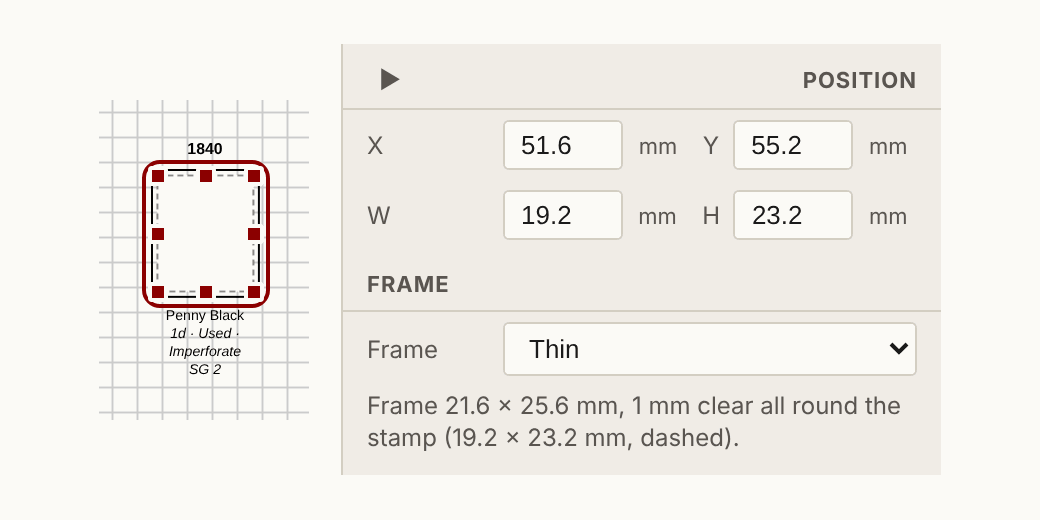
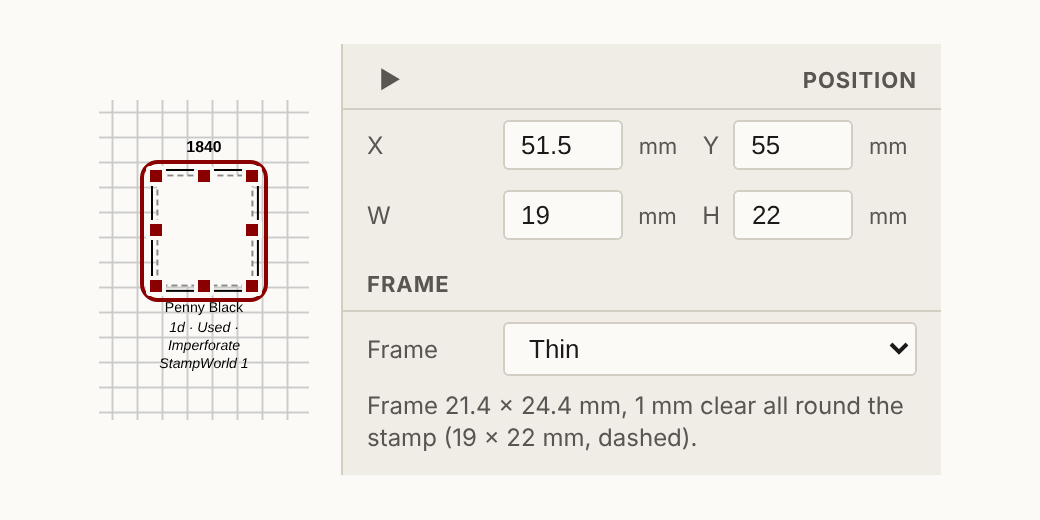
Rewrite the tutorial with pictures of the current editor
- Four steps, each with a picture: adding stamps at their catalogue size,
  frames and captions, theme / page border / Page setup, preview and export
- First-run sample album: an exhibition-style page with three 1840-41
  stamps at 19 x 22 mm (3/4 x 7/8 inch), numbered as StampWorld 1 to 3
- tools/screenshots.py (make screenshots) makes the tutorial pictures and
  the README screenshots from the running app; tutorial PNGs are packaged
- README lists frames, captions and themes; screenshots refreshed
- Tests: every step has a described 2:1 picture that loads, Next walks
  through and finishes, the named controls exist, and the sample keeps
  its stamps at 19 x 22 mm with no warnings

Claude-Session: https://claude.ai/code/session_016fZNTHwNDrQAHZBywXXw2X

diff --git a/src/stamp_album/web/tutorial.js b/src/stamp_album/web/tutorial.js
@@ -25,7 +25,8 @@ function showTutorial() {
 }
 
 // Auto-load a sample album so the canvas isn't empty: an exhibition-style page with three
-// stamps at their catalogue size (19 x 23 mm), so their frames show the 1 mm clearance.
+// stamps at their size (3/4 x 7/8 inch, 19 x 22 mm), so their frames show the 1 mm clearance.
+// Numbers and dates are StampWorld's (Great Britain 1 to 3).
 // The screenshot script (tools/screenshots.py) uses the same page.
 var SAMPLE_DSL = [
     'ALBUM_PAGES_BORDER(0.5 0 0 1)',
@@ -39,13 +40,13 @@ var SAMPLE_DSL = [
     'PAGE_TEXT_AT(20.0 18.0 170.0 12.0 "HB" 16 "Great Britain: The First Stamps" "center")',
     'PAGE_TEXT_ROLE("heading")',
     'PAGE_TEXT_AT(20.0 31.0 170.0 8.0 "HN" 10 "Line-engraved issues, 1840 to 1841" "center")',
-    'STAMP_ADD_AT(51.5 55.0 19.0 23.0 "Penny Black" "SG 2" "" "" rectangle "solid" "#000000" 0.5 "#ffffff" 100)',
+    'STAMP_ADD_AT(51.5 55.0 19.0 22.0 "Penny Black" "StampWorld 1" "" "" rectangle "solid" "#000000" 0.5 "#ffffff" 100)',
     'STAMP_HEADING("HN" 9 "1840")',
     'STAMP_DETAILS("1d" "Used" "Imperforate")',
-    'STAMP_ADD_AT(95.5 55.0 19.0 23.0 "Twopence Blue" "SG 5" "" "" rectangle "solid" "#000000" 0.5 "#ffffff" 100)',
+    'STAMP_ADD_AT(95.5 55.0 19.0 22.0 "Twopence Blue" "StampWorld 2" "" "" rectangle "solid" "#000000" 0.5 "#ffffff" 100)',
     'STAMP_HEADING("HN" 9 "1840")',
     'STAMP_DETAILS("2d" "Used" "Imperforate")',
-    'STAMP_ADD_AT(139.5 55.0 19.0 23.0 "Penny Red" "SG 8" "" "" rectangle "solid" "#000000" 0.5 "#ffffff" 100)',
+    'STAMP_ADD_AT(139.5 55.0 19.0 22.0 "Penny Red" "StampWorld 3" "" "" rectangle "solid" "#000000" 0.5 "#ffffff" 100)',
     'STAMP_HEADING("HN" 9 "1841")',
     'STAMP_DETAILS("1d" "Used" "Imperforate")'
 ].join("\n");

diff --git a/tools/screenshots.py b/tools/screenshots.py
@@ -91,8 +91,11 @@ def _fit(parts, size=TUTORIAL_SIZE, gap=16 * DSF, margin=14 * DSF):
 def _stack(rows, gap=12 * DSF):
     """Crops (or rows of crops) one above the other, left-aligned, at their own scale."""
     rows = [r if isinstance(r, Image.Image) else _row(r, gap) for r in rows]
-    out = Image.new("RGB", (max(r.width for r in rows), sum(r.height for r in rows) + gap * (len(rows) - 1)),
-                    BACKGROUND)
+    out = Image.new(
+        "RGB",
+        (max(r.width for r in rows), sum(r.height for r in rows) + gap * (len(rows) - 1)),
+        BACKGROUND,
+    )
     y = 0
     for r in rows:
         out.paste(r, (0, y))
@@ -101,8 +104,11 @@ def _stack(rows, gap=12 * DSF):
 
 
 def _row(parts, gap):
-    out = Image.new("RGB", (sum(p.width for p in parts) + gap * (len(parts) - 1), max(p.height for p in parts)),
-                    BACKGROUND)
+    out = Image.new(
+        "RGB",
+        (sum(p.width for p in parts) + gap * (len(parts) - 1), max(p.height for p in parts)),
+        BACKGROUND,
+    )
     x = 0
     for p in parts:
         out.paste(p, (x, 0))
@@ -121,7 +127,9 @@ def main():
     with sync_playwright() as p:
         browser = p.chromium.launch()
         page = browser.new_page(viewport={"width": 1440, "height": 900}, device_scale_factor=DSF)
-        page.add_init_script("try { localStorage.setItem('stampalbum-tutorial-done', '1'); } catch (e) {}")
+        page.add_init_script(
+            "try { localStorage.setItem('stampalbum-tutorial-done', '1'); } catch (e) {}"
+        )
         page.goto(f"http://127.0.0.1:{port}/")
         page.wait_for_function("window.StampAlbum && document.getElementById('page')")
         page.evaluate("""() => {
@@ -131,7 +139,10 @@ def main():
             document.activeElement && document.activeElement.blur();
         }""")
         # No hover outlines, size labels or empty-panel hint in the pictures
-        page.add_style_tag(content=".cel .dim { display: none !important; } #rp-none { visibility: hidden; }")
+        page.add_style_tag(
+            content=".cel .dim, #toast-container { display: none !important; }"
+            " #rp-none { visibility: hidden; }"
+        )
         page.mouse.move(5, 890)
         page.wait_for_timeout(400)
         full = _shot(page)
@@ -139,21 +150,32 @@ def main():
         # 1. A stamp at its catalogue size, and the sizes in Properties
         stamp = _crop(full, _page_mm(page, 40, 40, 82, 104))
         props_top = _box(page, "#rp .rp-sec")[1]
-        props = _crop(full, (_box(page, "#rp")[0], props_top, _box(page, "#rp")[2], _box(page, "#pframe-size")[3] + 4))
+        props = _crop(
+            full,
+            (
+                _box(page, "#rp")[0],
+                props_top,
+                _box(page, "#rp")[2],
+                _box(page, "#pframe-size")[3] + 4,
+            ),
+        )
         _save(_fit([stamp, props]), WEB / "tutorial-1-add.png")
 
         # 2. Frames and captions on the sample page
         page.evaluate("StampAlbum.select(null)")
         page.wait_for_timeout(200)
         full = _shot(page)
-        _save(_fit([_crop(full, _page_mm(page, 38, 38, 172, 102))]), WEB / "tutorial-2-captions.png")
+        _save(
+            _fit([_crop(full, _page_mm(page, 38, 38, 172, 102))]), WEB / "tutorial-2-captions.png"
+        )
 
         # 3. The bar above the page (Page, then Page border and Theme) over the top of the page
         bar = _box(page, "#ca-toolbar")
         page_btn = _box(page, "#btn-page-setup")
-        border_sel, theme_sel = _box(page, "#def-bdr"), _box(page, "#def-theme")
-        left = _crop(full, (bar[0], bar[1], page_btn[2] + 8, bar[3]))
-        right = _crop(full, (border_sel[0] - 92, bar[1], theme_sel[2] + 8, bar[3]))
+        theme_sel = _box(page, "#def-theme")
+        left = _crop(full, (bar[0], bar[1], page_btn[2] + 3, bar[3]))
+        border_label = _box(page, 'label[for="def-bdr"]')
+        right = _crop(full, (border_label[0] - 8, bar[1], theme_sel[2] + 8, bar[3]))
         sheet = _crop(full, _page_mm(page, 0, 0, 210, 44))
         _save(_fit([_stack([[left, right], sheet])]), WEB / "tutorial-3-page.png")
 
@@ -162,7 +184,8 @@ def main():
         page.wait_for_timeout(250)
         full = _shot(page)
         menu = page.evaluate("""() => {
-            const m = [...document.querySelectorAll('#btn-export-dd [role=menu], #btn-export-dd .export-menu, #btn-export-dd ul, #btn-export-dd div')]
+            const q = '#btn-export-dd [role=menu], #btn-export-dd div';
+            const m = [...document.querySelectorAll(q)]
                 .filter(n => n.offsetParent && n.getBoundingClientRect().height > 40)[0];
             const b = (m || document.getElementById('btn-export')).getBoundingClientRect();
             return [b.left, b.top, b.right, b.bottom];

diff --git a/src/tests/test_tutorial.py b/src/tests/test_tutorial.py
@@ -20,8 +20,11 @@ def test_every_step_has_a_picture_that_loads(page):
         img = steps.nth(i).locator("img.tutorial-img")
         assert img.count() == 1, f"step {i + 1} has no picture"
         assert len(img.get_attribute("alt") or "") > 20, f"step {i + 1} picture needs a description"
-        page.evaluate("i => { const s = [...document.querySelectorAll('#tutorial-overlay .tutorial-step')];"
-                      " s.forEach((n, k) => n.classList.toggle('active', k === i)); }", i)
+        page.evaluate(
+            "i => { const s = [...document.querySelectorAll('#tutorial-overlay .tutorial-step')];"
+            " s.forEach((n, k) => n.classList.toggle('active', k === i)); }",
+            i,
+        )
         img.evaluate("im => im.complete || new Promise(r => { im.onload = im.onerror = r; })")
         size = img.evaluate("im => [im.naturalWidth, im.naturalHeight]")
         assert size[0] > 0, f"step {i + 1} picture did not load"
@@ -31,7 +34,9 @@ def test_every_step_has_a_picture_that_loads(page):
 def test_next_walks_through_the_steps_and_finishes(page):
     _open(page)
     for step in range(1, 5):
-        active = page.evaluate("document.querySelector('#tutorial-overlay .tutorial-step.active').dataset.step")
+        active = page.evaluate(
+            "document.querySelector('#tutorial-overlay .tutorial-step.active').dataset.step"
+        )
         assert active == str(step)
         label = page.inner_text("#btn-tutorial-next")
         assert label == ("Get Started" if step == 4 else "Next")
@@ -39,20 +44,25 @@ def test_next_walks_through_the_steps_and_finishes(page):
     assert "open" not in (page.get_attribute("#tutorial-overlay", "class") or "")
 
 
-@pytest.mark.parametrize("selector", ["#pbs", "#phil-sec", "#def-theme", "#def-bdr", "#btn-page-setup",
-                                      "#btn-preview", "#btn-export", "#btn-save", "#pw", "#ph"])
+NAMED = ["#pbs", "#phil-sec", "#def-theme", "#def-bdr", "#btn-page-setup",
+         "#btn-preview", "#btn-export", "#btn-save", "#pw", "#ph"]
+
+
+@pytest.mark.parametrize("selector", NAMED)
 def test_the_controls_the_tutorial_names_exist(page, selector):
     assert page.locator(selector).count() == 1
 
 
 def test_sample_album_shows_stamps_at_catalogue_size(page):
     page.evaluate("StampAlbum.newAlbum(); StampAlbum.loadSampleAlbum()")
-    stamps = page.evaluate("StampAlbum.E.filter(e => e.t === 'stamp').map(e => "
-                           "({lbl: e.lbl, w: e.w / StampAlbum._sc, h: e.h / StampAlbum._sc, x: e.x / StampAlbum._sc,"
-                           " cat: e.cat, frame: StampAlbum.frameOf(e)}))")
+    stamps = page.evaluate(
+        "(() => { const s = StampAlbum._sc;"
+        " return StampAlbum.E.filter(e => e.t === 'stamp').map(e => ({lbl: e.lbl, w: e.w / s,"
+        " h: e.h / s, x: e.x / s, cat: e.cat, frame: StampAlbum.frameOf(e)})); })()"
+    )
     assert [s["lbl"] for s in stamps] == ["Penny Black", "Twopence Blue", "Penny Red"]
     for s in stamps:
-        assert (s["w"], s["h"]) == (pytest.approx(19), pytest.approx(23)), "kept at the catalogue size"
+        assert (s["w"], s["h"]) == (pytest.approx(19), pytest.approx(22)), "kept at its size"
         assert s["frame"] == "thin" and s["cat"]
     assert stamps[0]["x"] == pytest.approx(51.5)
     assert page.locator("#page .caption-warn").count() == 0, "the sample page has no warnings"

diff --git a/src/tests/test_save_roundtrip_ui.py b/src/tests/test_save_roundtrip_ui.py
@@ -30,7 +30,7 @@ def test_stamp_details_survive_save_and_open(page):
     page.evaluate("StampAlbum.newAlbum()")
     assert page.evaluate("StampAlbum.E.length") == 0
     page.evaluate("dsl => StampAlbum.parseDSL(dsl)", dsl)
-    page.evaluate("StampAlbum.select(StampAlbum.E.find(e => e.lbl === 'Penny Black — 1840').id)")
+    page.evaluate("StampAlbum.select(StampAlbum.E.find(e => e.lbl === 'Penny Black').id)")
     assert _properties(page) == dict(DETAILS, pcond="Used", pbs="double")
 
 

diff --git a/CHANGELOG.md b/CHANGELOG.md
@@ -21,6 +21,7 @@ All notable changes to this project are documented here. The format follows [Kee
 - Browser smoke test (`test_ui_smoke.py`; skipped locally without Playwright, required in CI)
 
 ### Changed
+- **Tutorial** rewritten for the current editor, with a picture for each step: adding stamps at their catalogue size, frames and captions, theme, page border and Page setup, and preview and export. The first-run sample album is now an exhibition-style page with three 1840–41 stamps at 19 × 22 mm (StampWorld 1 to 3). The pictures and the README screenshots are made by `tools/screenshots.py` (`make screenshots`)
 - **Page borders look the same in every view.** The editor's drawing is the reference: `engines/page_border.py` ports `renderPageBorder`, its corner ornaments and edge patterns from `web/borders.js`, and the preview, PDF, PNG and SVG all draw its lines from it. Plain borders print at the editor's weights (Single 0.4 mm, was 0.5 mm). Greek key and Rope no longer have a plain rectangle under them in exports (the editor never drew one), and in the editor they take the theme colour like every other border (Rope was brown)
 - **Stamp frames are drawn outside the stamp** in the editor, preview, PDF, PNG and SVG, from one geometry (`engines/frames.py` and `frameLines` / `shapeOutline` in `web/dsl_core.js`). A stamp's W and H are its size from the catalogue; the frame leaves 1 mm clear all round, then draws its line or lines: Thin 0.5 pt, Medium 1 pt, Double two 0.5 pt lines 1 pt apart. Shaped stamps keep the 1 mm on every side. Captions, and their warnings, are measured from the frame's outer edge. Albums made before this keep their stored sizes, so their frames grow by the clearance
 - **Stamp captions** have one layout in the editor, preview, PDF, PNG and SVG (shared by `engines/caption_layout.py` and `captionLayout` in `web/dsl_core.js`): the heading above the box in bold 9 pt; below it the description (8 pt), the details line ("1/2D · Used · Imperforate") and the catalogue number, both 8 pt italic. The nearest line is 2 mm from the frame, lines are centred and wrapped to the stamp's width, and captions are black. The description now always sits below the box (it used to be drawn inside a box without an image). In the editor the captions are drawn where they print and the description is edited in place below the box; shaped stamps show their captions too. Pictures have no captions

diff --git a/README.md b/README.md
@@ -10,7 +10,9 @@ Design and print stamp album pages. StampAlbum Pro pairs a drag-and-drop page ca
 
 - **Visual canvas:** place, drag, resize and align stamps and text elements on a page
 - **Stamp shapes:** rectangle, triangle, diamond, oval, hexagon, octagon, pentagon
-- **Borders:** ornamental page and stamp borders, including edge patterns (greek key, rope) and corner ornaments
+- **Stamp frames:** None, Thin, Medium or Double, always black. You enter the stamp's own size from the catalogue; the frame is drawn 1 mm clear all round it
+- **Captions:** a heading above each stamp; description, details and catalogue number below
+- **Themes and page borders:** plain borders for exhibition pages and decorative ones (corner ornaments, Greek key, Rope) for personal albums, in the theme's colour
 - **Pages:** add and delete pages; page sizes include A5 and Legal
 - **Layout tools:** grid fill and undo/redo
 - **Images:** upload and place images on a page
@@ -20,6 +22,8 @@ Design and print stamp album pages. StampAlbum Pro pairs a drag-and-drop page ca
 - **Album files:** create, open, save and delete `.slbum` albums from the sidebar
 
 ![DSL editor](docs/screenshots/04-dsl-editor.png)
+
+The tutorial pictures and these screenshots are made from the running app with `make screenshots` (`tools/screenshots.py`); run it after changing how the editor looks.
 
 ## What it does not do yet
 
